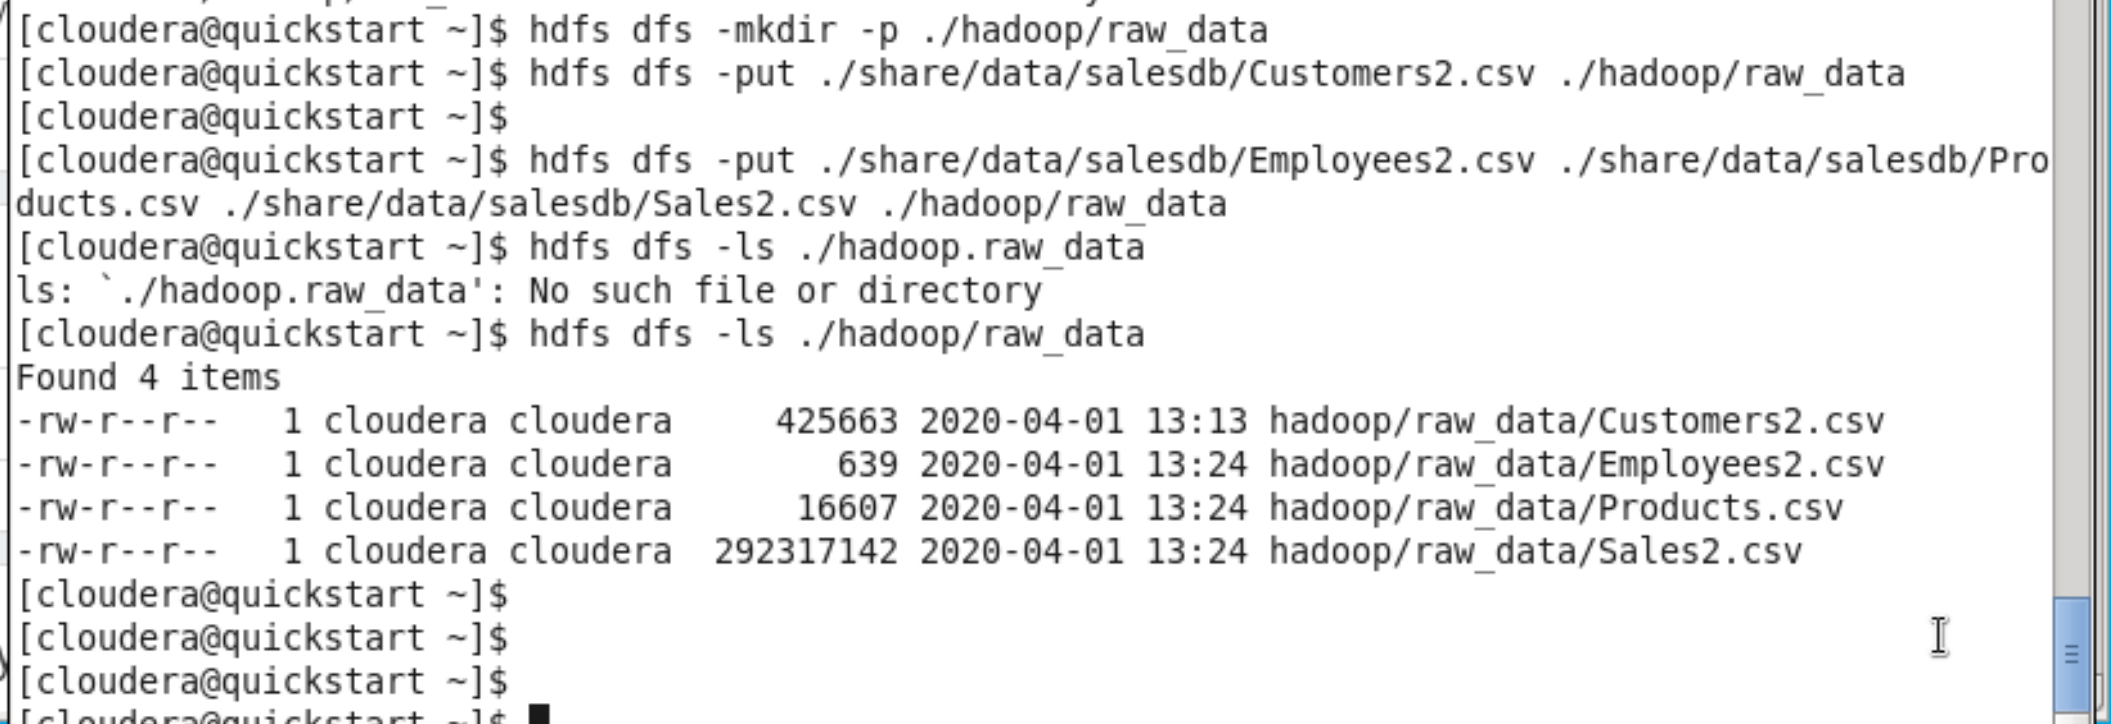
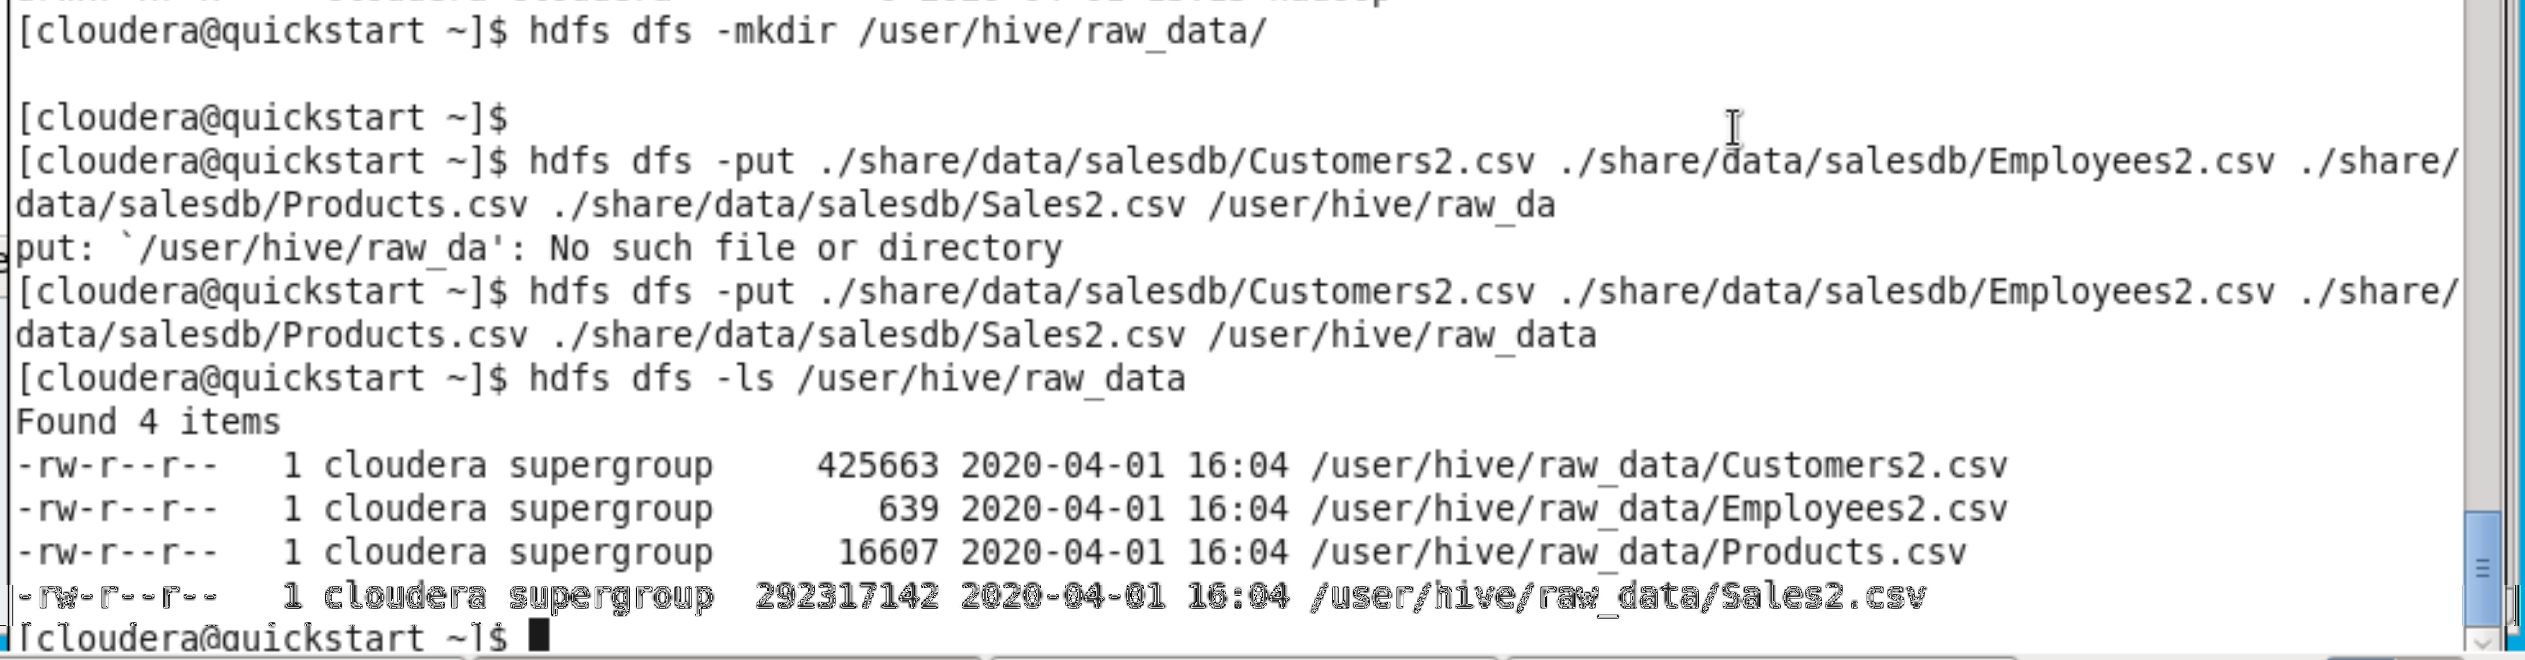
Loading raw employees table into hdfs

Changed region(s): [[0.0, 0.0, 1.0, 1.0], [0.8929, 0.8485, 0.9237, 0.9091]]

diff --git a/README.md b/README.md
@@ -19,11 +19,11 @@ Repository for CSCI 5751 (Spring 2020) Project 2 - Hadoop
       - **Video Memory:** 16 MB
       - **Network Adapter:** Enabled
    2. I added a TCP port-forwarding rule as per the instructions, from host port 2222 to guest port 22
-   3. In addition, I mounted a shared folder, mounting this repository to a machine folder named "/home/cloudera/share/" with full access for the root user.
-- Load raw data into HDFS
+   3. In addition, I mounted a shared folder, mounting this repository to a machine folder named "/home/cloudera/share/" with full access for the root user. This should be equivalent to an infrastructure team cloning this repo there. 
+      - For me, this command is `sudo mount -t vboxsf pied_piper_proj2 share`, but this will differ depending on your file system.
+- Load raw data into HDFS (note - make sure that quickstart.cloudera service is running - go to a browser and login to clouder manager, and restart the cloudera quickstart cluster)
    1. In my VM from the cloudera home directory, I now have an attached folder `share/data` which contains the downloaded data files `share/data/salesdb/Customers2.csv`, `share/data/salesdb/Employees2.csv`, etc.
-   2. Use the command `hdfs dfs -mkdir -p ./hadoop/raw_data` to create a hadoop directory (the `-p` command creates the parent directory `hadoop/`)
-   3. Use the command `hdfs dfs -put ./share/data/salesdb/Customers2.csv ./hadoop/raw_data` to put our Customers2.csv file into Hadoop distributed storage.
-   4. Repeat for `Employees2.csv`, `Products.csv`, and `Sales2.csv`
-   5. ![Command line steps to load data](documentation/raw_data_to_hdfs.png)
-- 
+   2. Run the bash script `/scripts/raw_data_into_hdfs.sh` to create hdfs folders for the raw data, and to move raw files into those folders.
+- Create an Impala sales database
+   1. From the terminal, run this command `impala-shell --query_file "./share/scripts/create_employees_table.sql"`
+      - This will execute the SQL query in the file "create employees table.txt", which creates the employees table according to the schema defined in the project instructions.
